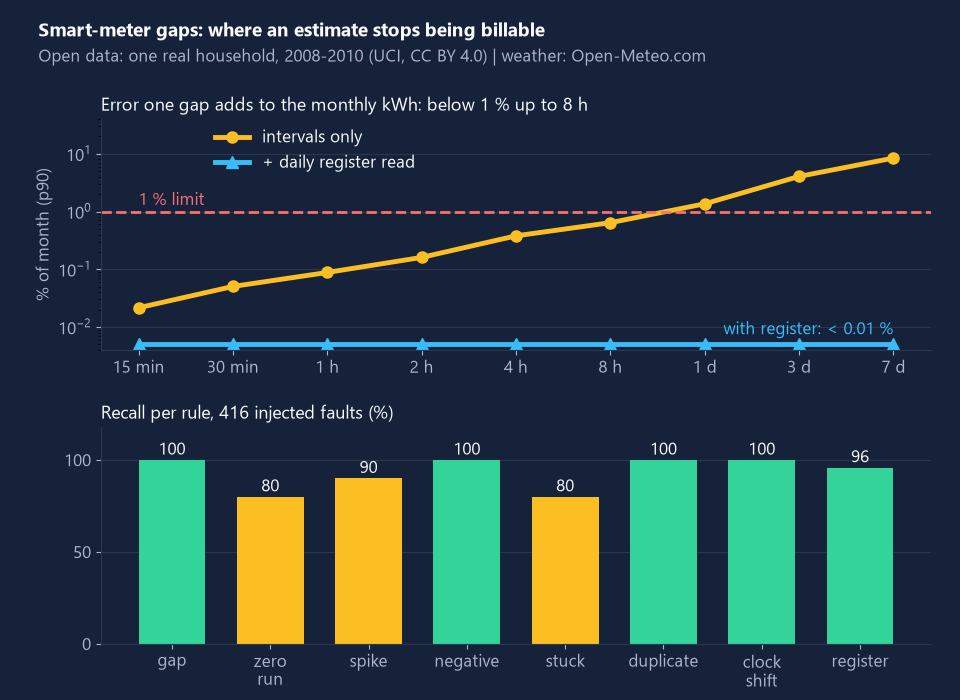
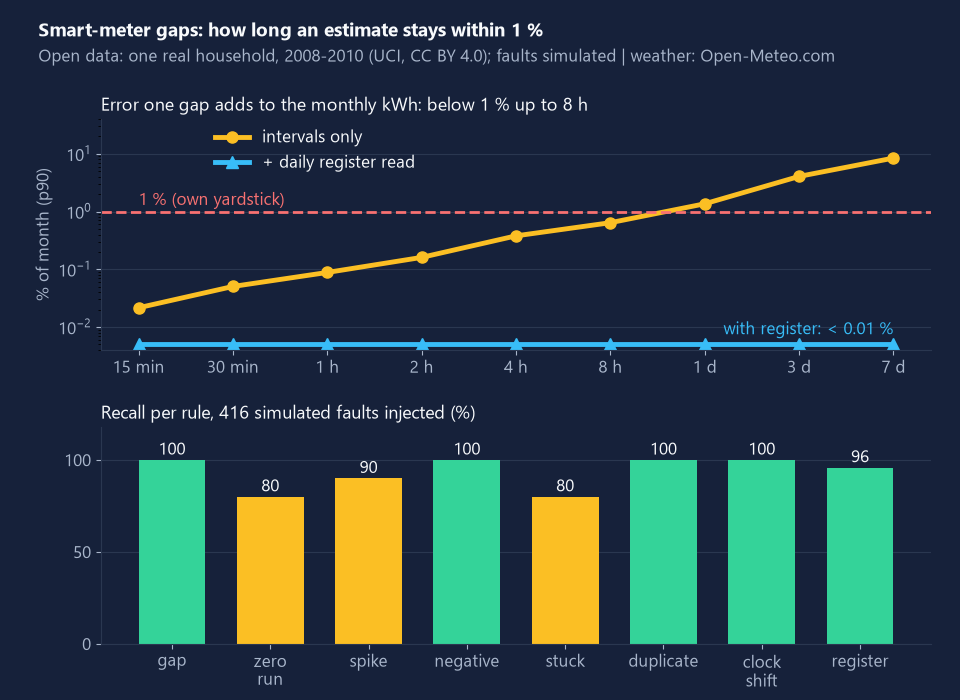
Data licences and honest LinkedIn wording
README: CC BY 4.0 licence links, Open-Meteo attribution with model mix and
Copernicus notice, changes made, and that the free Open-Meteo API is for
non-commercial use only. LinkedIn: "billable" replaced by the measured
1 % (own yardstick) wording, faults labelled simulated in post, limit and
post figure.

Changed region(s): [[0.2188, 0.03, 0.875, 0.09], [0.25, 0.57, 0.5, 0.6], [0.1875, 0.27, 0.3125, 0.3]]

diff --git a/interval_vee/plots.py b/interval_vee/plots.py
@@ -164,9 +164,9 @@ def post_figure(results, summ, path: Path) -> None:
     pal = DARK
     fig = plt.figure(figsize=(9.6, 7.0), dpi=100, facecolor=pal["bg"])
     lim = results["longest_gap_within_limit"]
-    fig.text(0.04, 0.948, "Smart-meter gaps: where an estimate stops being billable", fontsize=14, fontweight="bold",
+    fig.text(0.04, 0.948, "Smart-meter gaps: how long an estimate stays within 1 %", fontsize=14, fontweight="bold",
              color=pal["text"])
-    fig.text(0.04, 0.912, "Open data: one real household, 2008-2010 (UCI, CC BY 4.0) | weather: Open-Meteo.com",
+    fig.text(0.04, 0.912, "Open data: one real household, 2008-2010 (UCI, CC BY 4.0); faults simulated | weather: Open-Meteo.com",
              fontsize=12, color=pal["muted"])
     ax1 = fig.add_axes([0.105, 0.50, 0.865, 0.33])
     _style(ax1, pal)
@@ -176,7 +176,7 @@ def post_figure(results, summ, path: Path) -> None:
     ax1.set_ylim(0.004, 40)
     ax1.set_xlabel("")
     ax1.axhline(results["billing_limit_pct"], color=pal["red"], lw=2, ls="--")
-    ax1.text(0.0, results["billing_limit_pct"] * 1.3, "1 % limit", color=pal["red"], fontsize=12)
+    ax1.text(0.0, results["billing_limit_pct"] * 1.3, "1 % (own yardstick)", color=pal["red"], fontsize=12)
     ax1.text(len(LEN_LABELS) - 1, 0.0075, "with register: < 0.01 %", color=pal["accent"], fontsize=12, ha="right")
     ax1.legend(frameon=False, fontsize=12, labelcolor=pal["text"], loc="upper left", bbox_to_anchor=(0.12, 1.02))
     ax1.set_title(f"Error one gap adds to the monthly kWh: below 1 % up to {lim['vee']}", fontsize=13,
@@ -192,7 +192,7 @@ def post_figure(results, summ, path: Path) -> None:
     ax2.tick_params(axis="y", labelsize=12)
     ax2.set_ylim(0, 118)
     ax2.set_yticks([0, 50, 100])
-    ax2.set_title(f"Recall per rule, {sum(results['faults_injected'].values())} injected faults (%)", fontsize=13,
+    ax2.set_title(f"Recall per rule, {sum(results['faults_injected'].values())} simulated faults injected (%)", fontsize=13,
                   color=pal["text"], loc="left")
     fig.savefig(path, dpi=100, facecolor=pal["bg"])
     plt.close(fig)

diff --git a/README.md b/README.md
@@ -131,8 +131,8 @@ flowchart LR
 
 ## Data sources
 
-- Meter data (hidden truth): Hebrail, G. & Berard, A. (2006). *Individual Household Electric Power Consumption* [Dataset]. UCI Machine Learning Repository. https://doi.org/10.24432/C58K54, page https://archive.ics.uci.edu/dataset/235/individual+household+electric+power+consumption. Licence: **CC BY 4.0**. One house in Sceaux near Paris, 1-minute data, 2006-12-16 to 2010-11-26. Changes made: 1-minute mean kW aggregated to 15-minute kWh (3 decimals); an interval is left empty if any of its minutes is missing; the source clock is read as fixed UTC+1 (every day, DST days included, has 1,440 minutes). Shipped as `interval_vee/data/household_15min.csv.gz`.
-- Temperature: daily mean 2 m air temperature for 48.78 N, 2.29 E from the Open-Meteo historical weather API (reanalysis), https://open-meteo.com/, licence **CC BY 4.0**. Weather data by Open-Meteo.com. Retrieved 2026-11-11, shipped as `interval_vee/data/temperature_daily.csv`.
+- Meter data (hidden truth): Hebrail, G. & Berard, A. (2006). *Individual Household Electric Power Consumption* [Dataset]. UCI Machine Learning Repository. https://doi.org/10.24432/C58K54, page https://archive.ics.uci.edu/dataset/235/individual+household+electric+power+consumption. Licence: **CC BY 4.0** (https://creativecommons.org/licenses/by/4.0/). One house in Sceaux near Paris, 1-minute data, 2006-12-16 to 2010-11-26. Changes made: 1-minute mean kW aggregated to 15-minute kWh (3 decimals); an interval is left empty if any of its minutes is missing; the source clock is read as fixed UTC+1 (every day, DST days included, has 1,440 minutes). Shipped as `interval_vee/data/household_15min.csv.gz`.
+- Temperature: [Weather data by Open-Meteo.com](https://open-meteo.com/), licence **CC BY 4.0** (https://creativecommons.org/licenses/by/4.0/). Daily mean 2 m air temperature (`temperature_2m_mean`) for 48.78 N, 2.29 E from the historical weather API, default model mix (IFS HRES, ERA5 and ERA5-Land reanalysis); generated using Copernicus Climate Change Service information. Retrieved 2026-11-11 and shipped as `interval_vee/data/temperature_daily.csv`; the only change is the column names (`date,t_mean`). It was fetched from the **free API, which Open-Meteo allows for non-commercial use only**. This repo is a non-commercial open-source demo. Using `prepare-data` or the code with freshly fetched weather in a commercial setting needs an Open-Meteo paid plan or another weather source.
 - Faults, duplicates, clock shifts and register reads are generated by `interval_vee/faults.py` from that truth. The register reads are the true daily sums, rounded to 0.01 kWh.
 
 ## What is not verified yet
